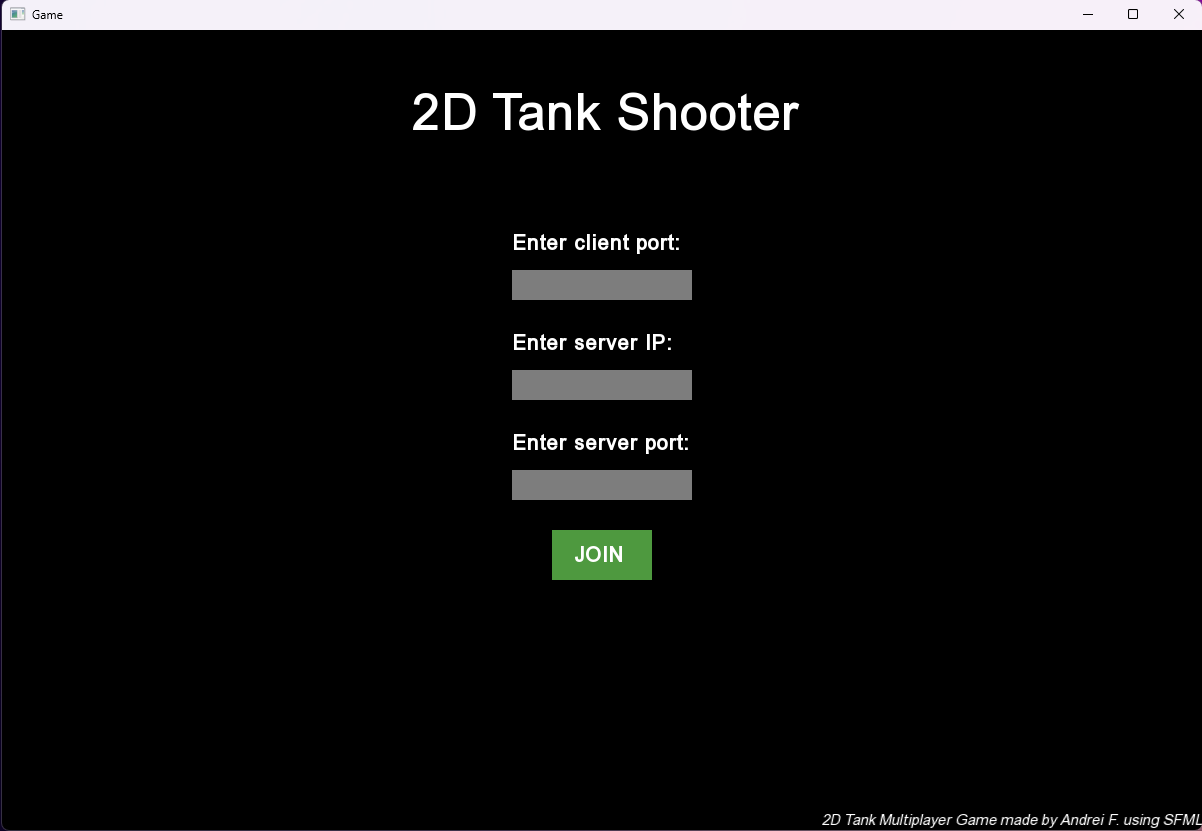
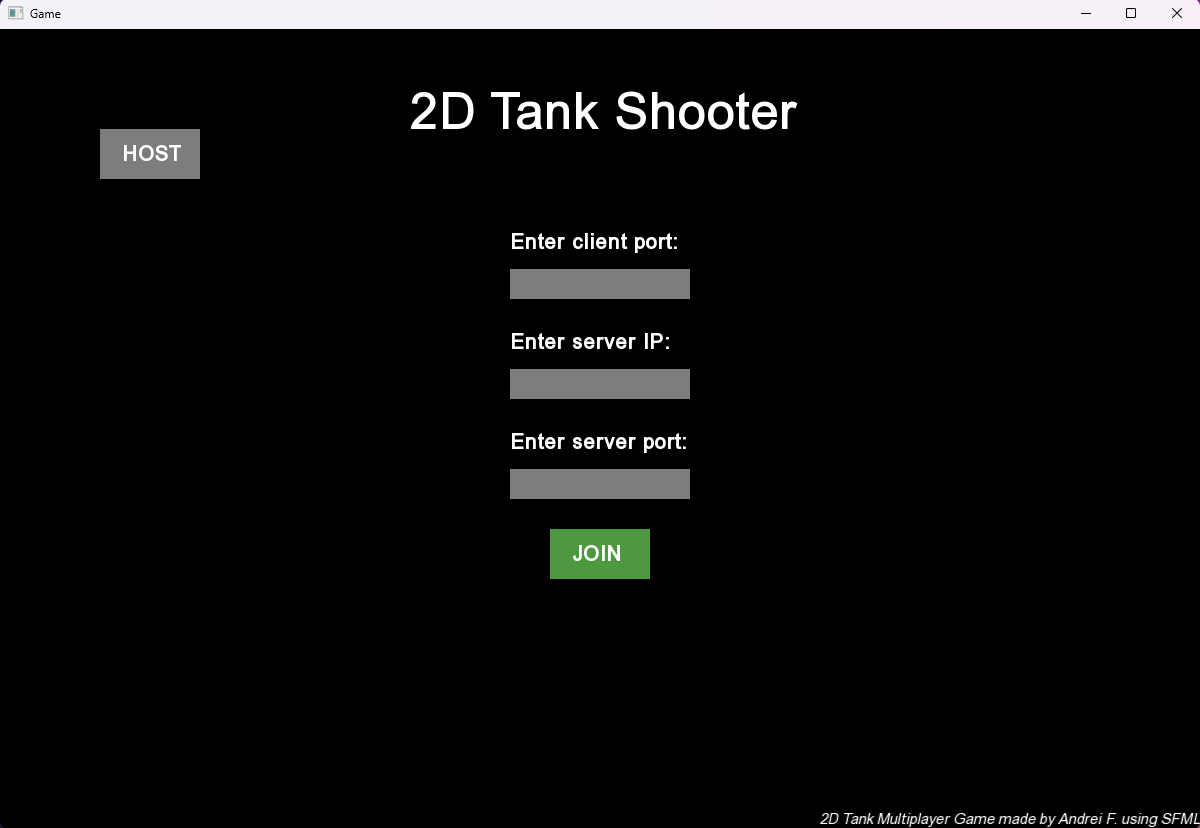
Updated readme

diff --git a/README.md b/README.md
@@ -24,13 +24,16 @@ Space - shoots projectile (if it's the player's turn)
 ![Main Menu Image](assets/images/main_menu_image.png)
 Image of the main menu UI, which is what the client sees when opening the game.
 
+![Host Menu Image](assets/images/host_menu_image.png)
+Image of the host menu UI.
+
 ![Both Players Connected](assets/images/both_clients_connected.png)
 Image of both players connected at once, the left being Player 1, and the right being Player 2.
 
 ![Player Shooting](assets/images/player_shooting.png)
 Image of Player 1 shooting.
 
-# [Demo Video](https://youtu.be/AL8oMHDAfvk)
+# [Demo Video](https://youtu.be/jNFzGbbPUjg)
 
 # How to Build & Run
 
